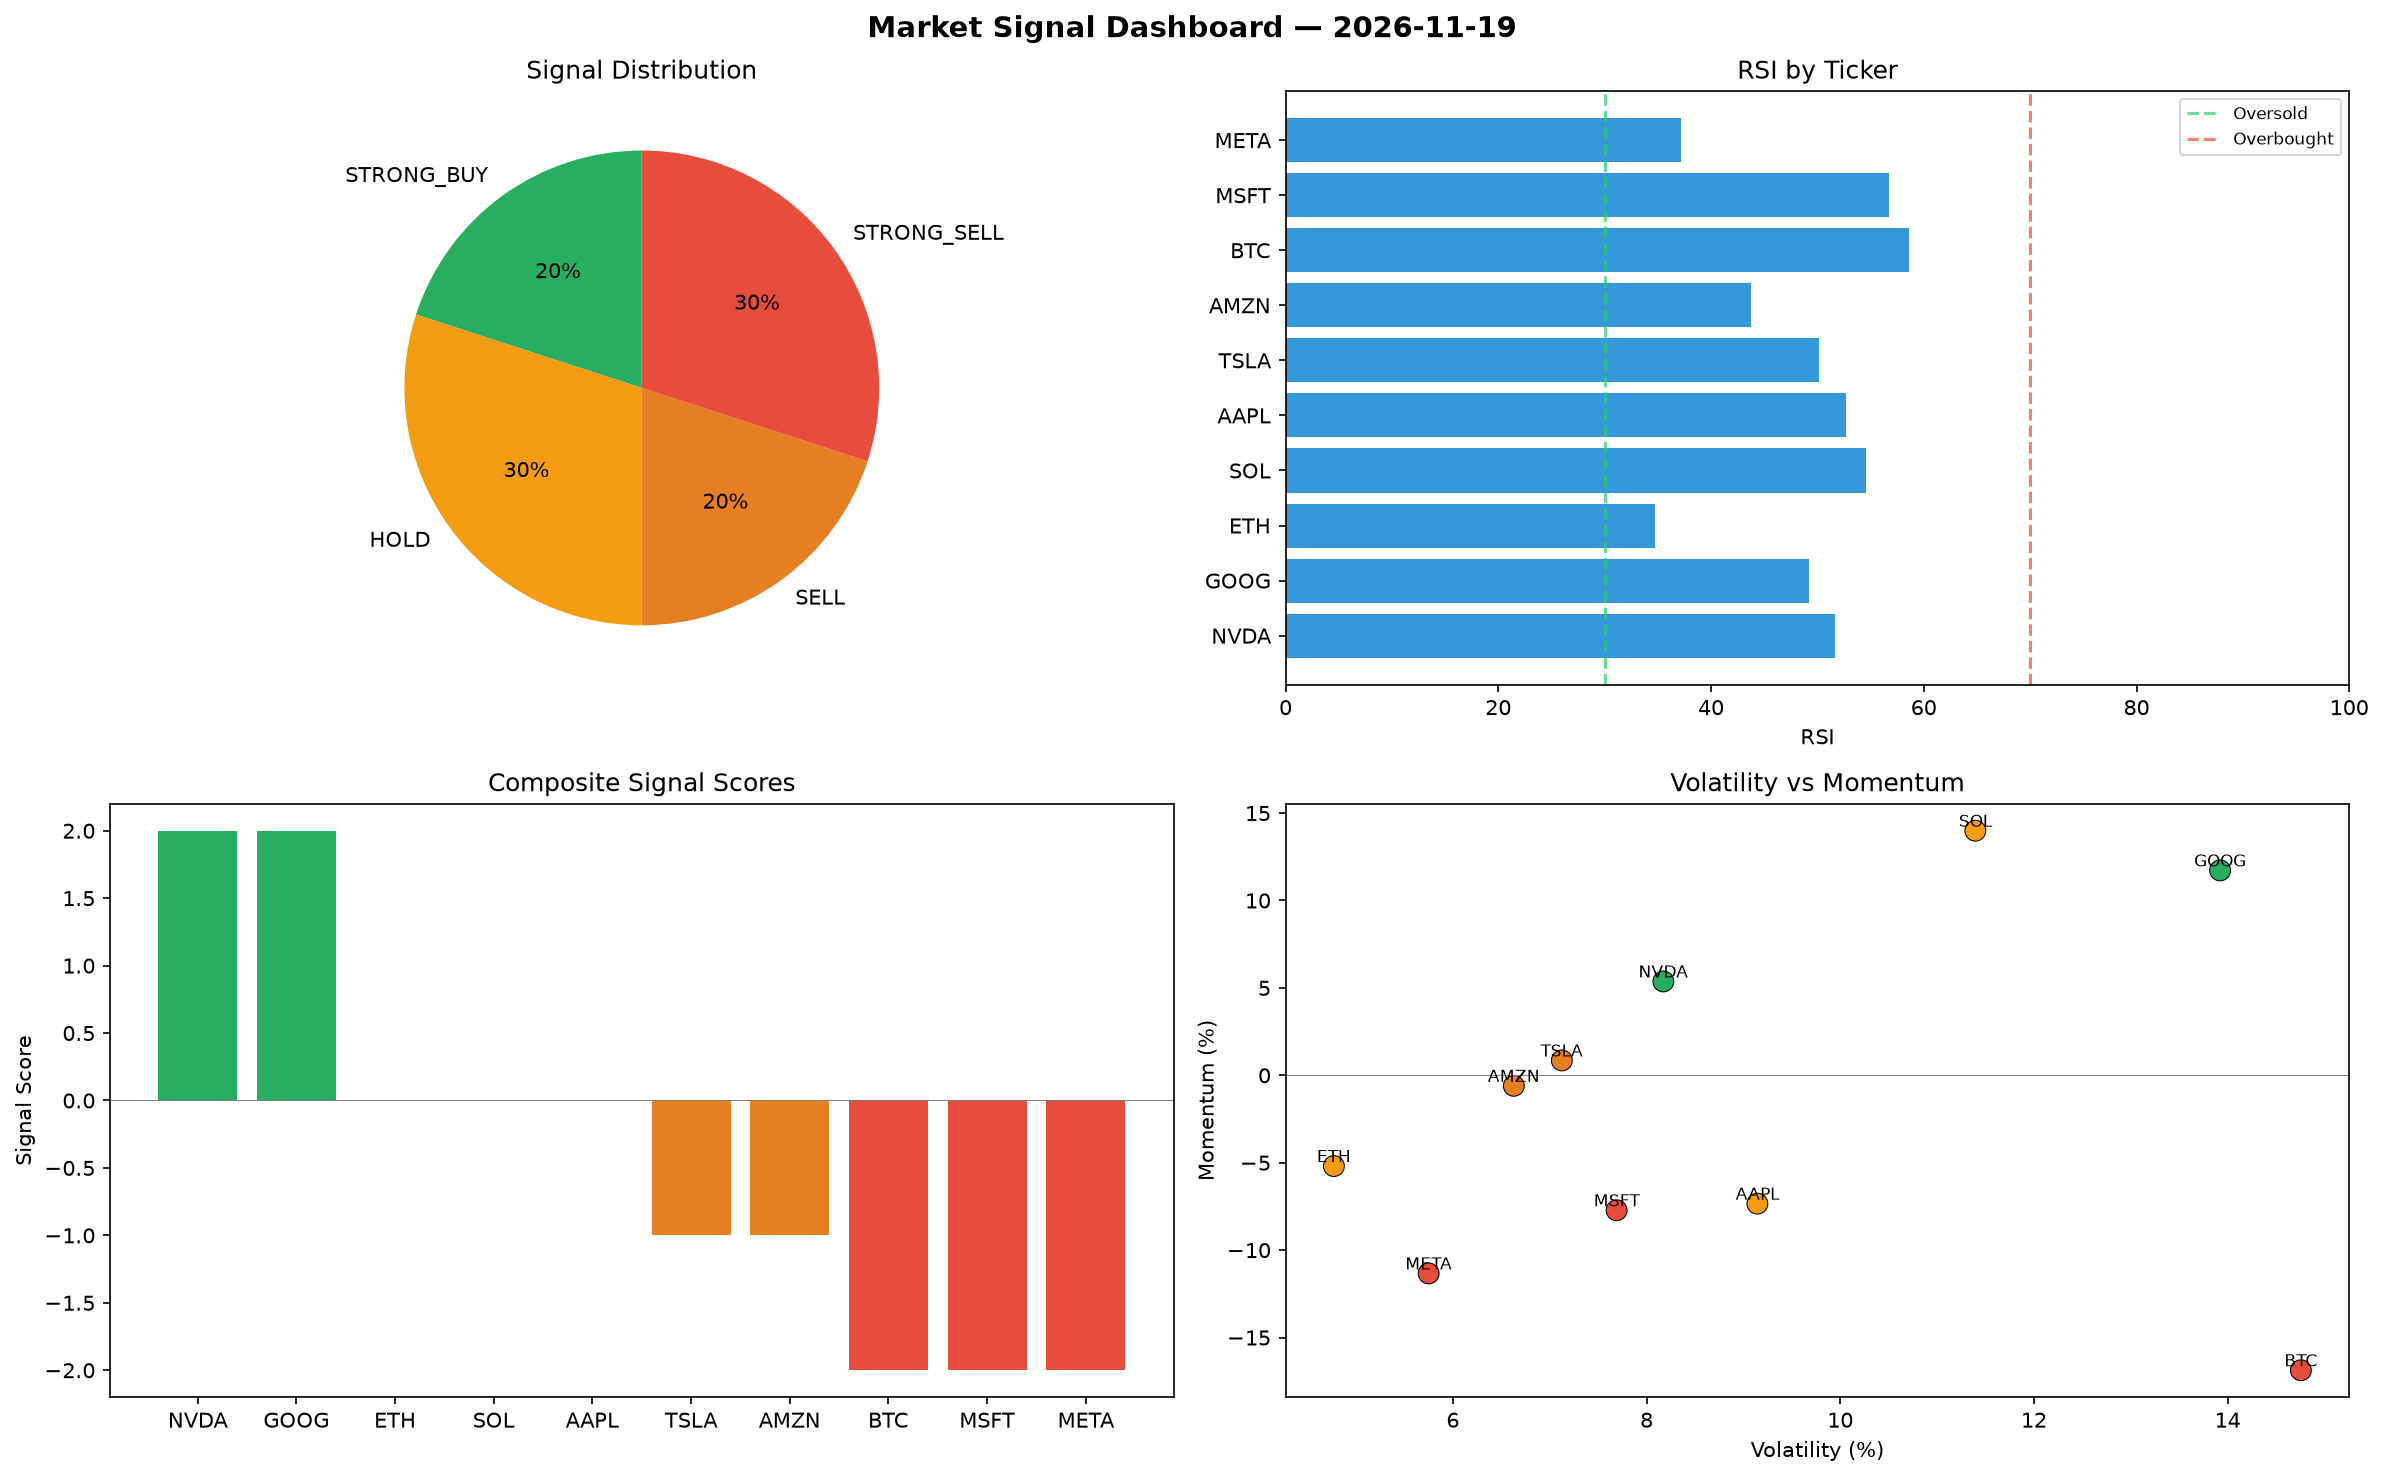
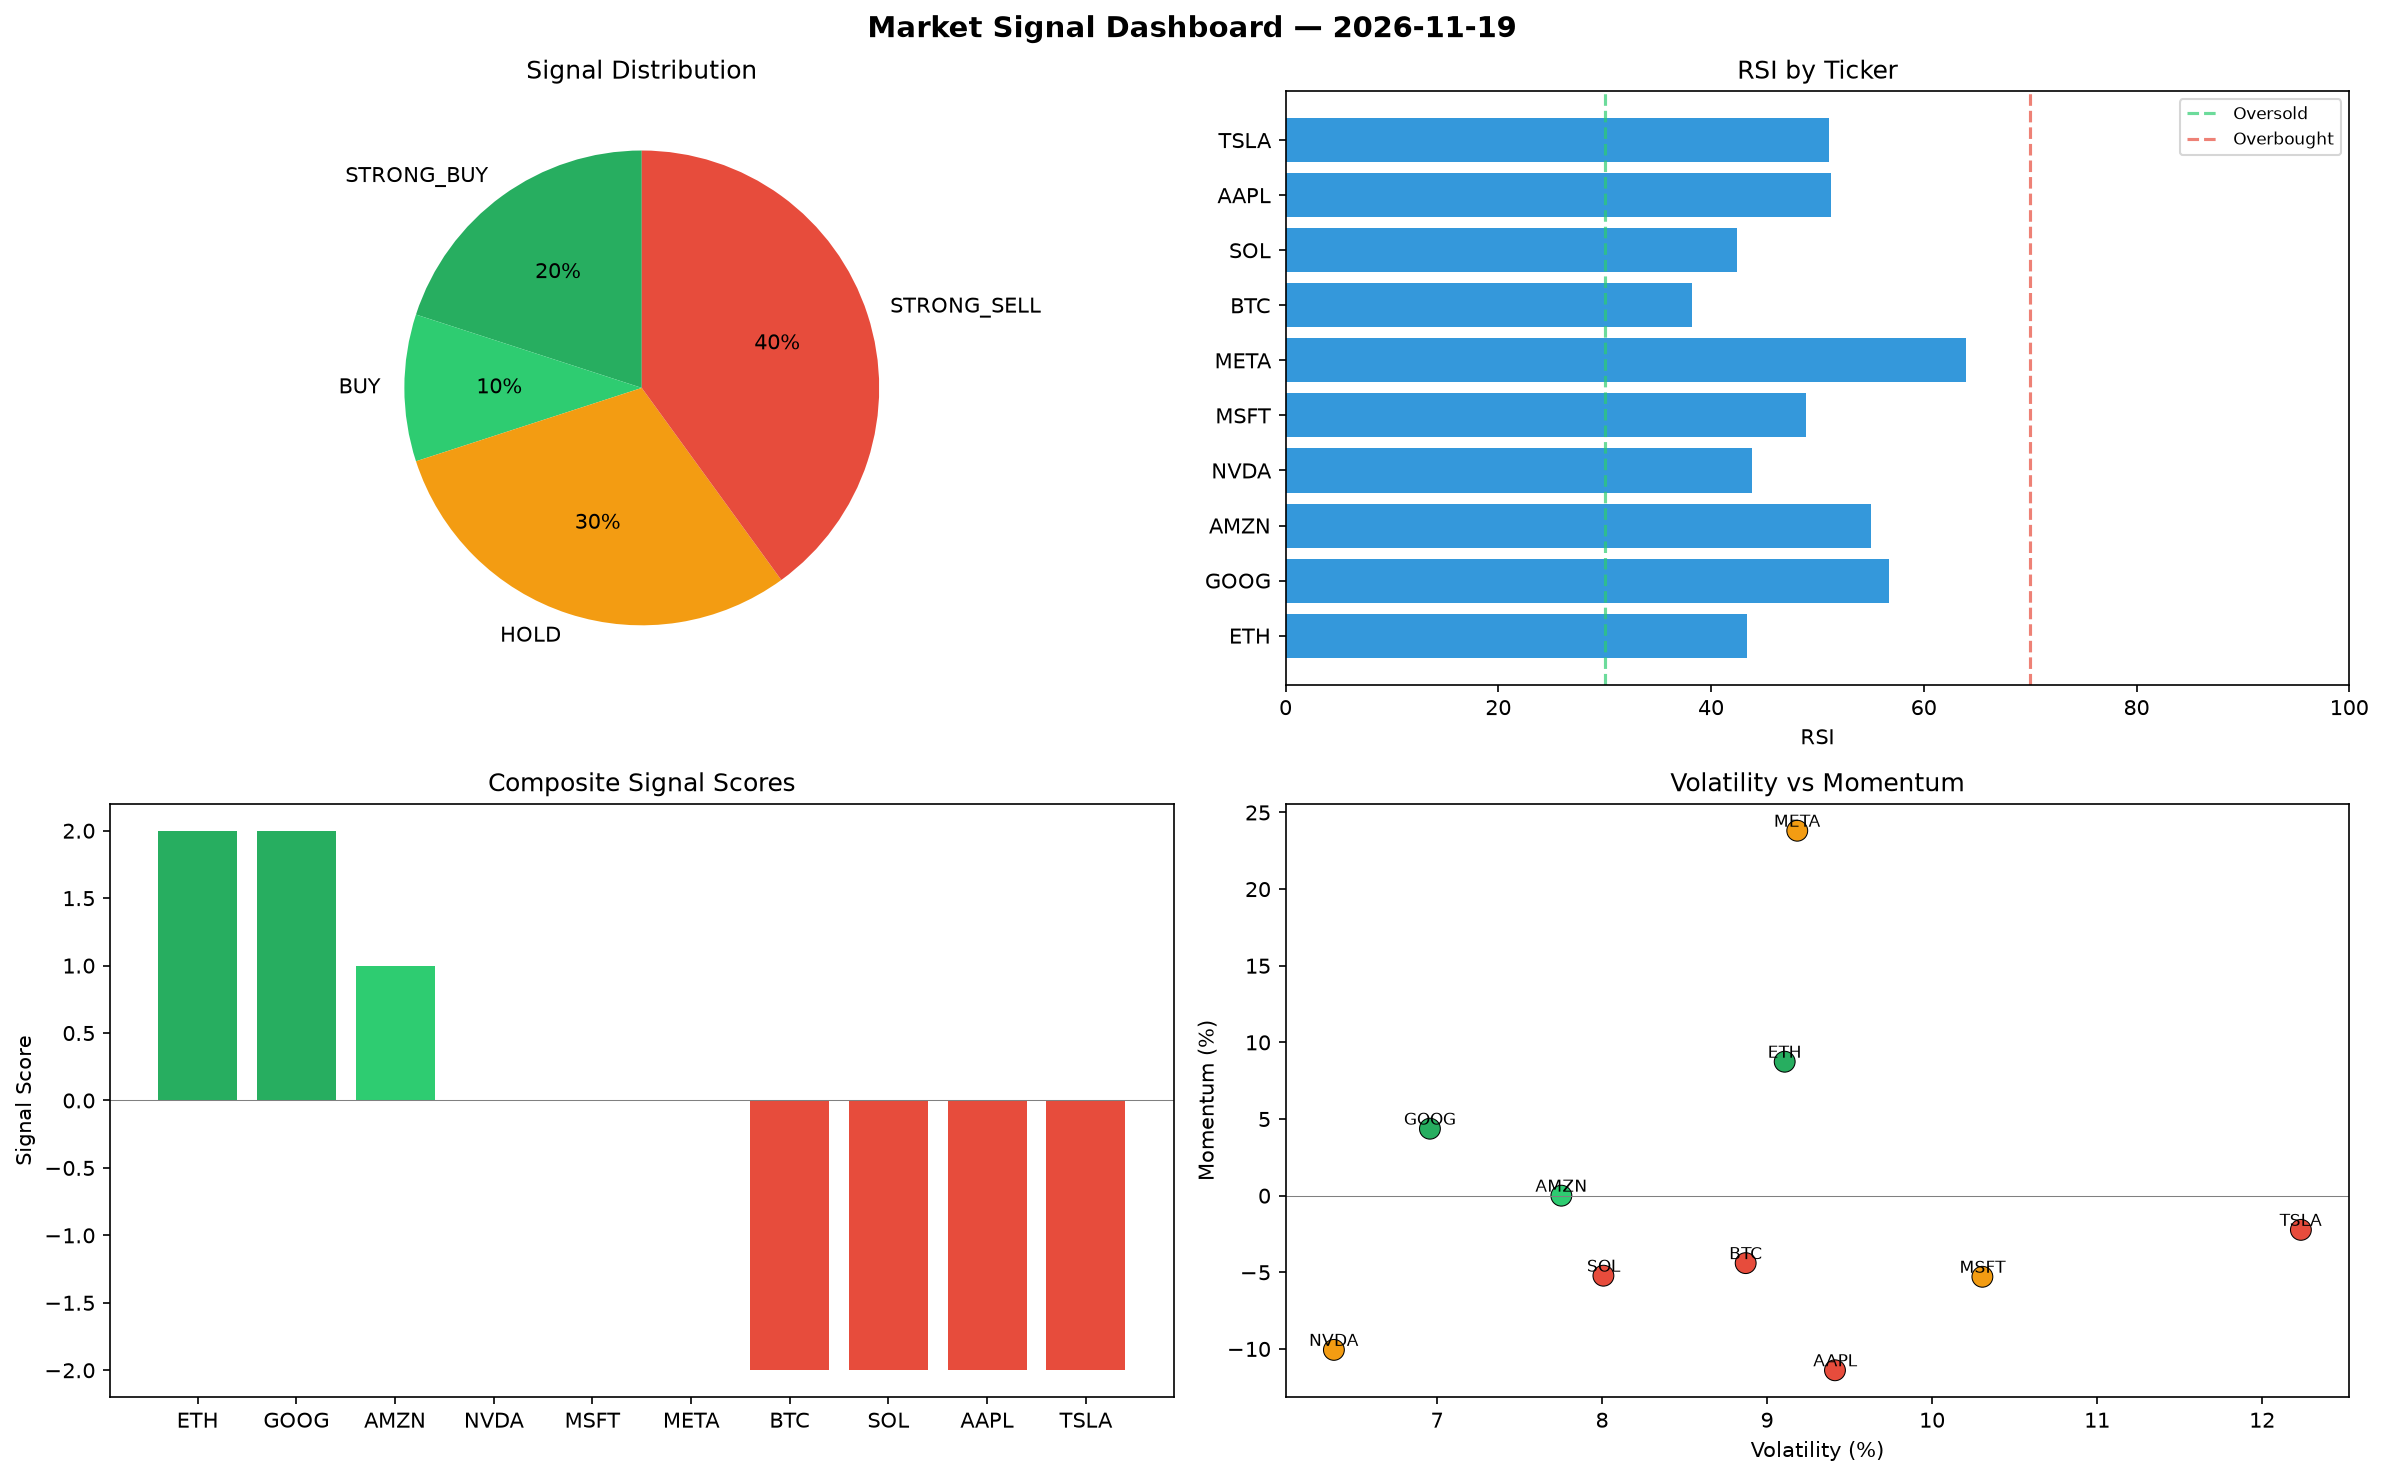
automated-bots: market signals 2026-11-19T10:35

diff --git a/logs/2026-11-19.md b/logs/2026-11-19.md
@@ -1,6 +1,6 @@
 # Market Signal Report — 2026-11-19
 
-**Run ID:** `4f9ea6cd6d` | **Buy:** 2 | **Sell:** 5 | **Hold:** 3
+**Run ID:** `186849a2a5` | **Buy:** 3 | **Sell:** 4 | **Hold:** 3
 
 ![Dashboard](2026-11-19_dashboard.png)
 
@@ -8,28 +8,28 @@
 
 | Ticker | Price | Signal | Score | RSI | Momentum | Confidence |
 |--------|-------|--------|-------|-----|----------|------------|
-| NVDA | $3525.76 | **STRONG_BUY** | 2 | 51.63 | 0.0537 | 0.5 |
-| GOOG | $3625.93 | **STRONG_BUY** | 2 | 49.22 | 0.1172 | 0.5 |
-| ETH | $3709.57 | **HOLD** | 0 | 34.75 | -0.0519 | 0.0 |
-| SOL | $2447.83 | **HOLD** | 0 | 54.61 | 0.1399 | 0.0 |
-| AAPL | $2013.69 | **HOLD** | 0 | 52.69 | -0.0734 | 0.0 |
-| TSLA | $799.68 | **SELL** | -1 | 50.16 | 0.0085 | 0.25 |
-| AMZN | $2494.23 | **SELL** | -1 | 43.75 | -0.006 | 0.25 |
-| BTC | $1211.27 | **STRONG_SELL** | -2 | 58.61 | -0.1687 | 0.5 |
-| MSFT | $1968.8 | **STRONG_SELL** | -2 | 56.73 | -0.0772 | 0.5 |
-| META | $2202.32 | **STRONG_SELL** | -2 | 37.15 | -0.1133 | 0.5 |
+| ETH | $1110.14 | **STRONG_BUY** | 2 | 43.41 | 0.0874 | 0.5 |
+| GOOG | $2187.84 | **STRONG_BUY** | 2 | 56.77 | 0.0437 | 0.5 |
+| AMZN | $4094.77 | **BUY** | 1 | 55.02 | -0.0 | 0.25 |
+| NVDA | $3864.33 | **HOLD** | 0 | 43.82 | -0.1006 | 0.0 |
+| MSFT | $2803.28 | **HOLD** | 0 | 48.95 | -0.0529 | 0.0 |
+| META | $3700.27 | **HOLD** | 0 | 63.96 | 0.2381 | 0.0 |
+| BTC | $2903.78 | **STRONG_SELL** | -2 | 38.19 | -0.044 | 0.5 |
+| SOL | $1190.7 | **STRONG_SELL** | -2 | 42.46 | -0.0522 | 0.5 |
+| AAPL | $2107.32 | **STRONG_SELL** | -2 | 51.32 | -0.1139 | 0.5 |
+| TSLA | $2547.24 | **STRONG_SELL** | -2 | 51.1 | -0.0223 | 0.5 |
 
 ## Delta vs Yesterday
 
 | Ticker | Today | Yesterday | Price Change | Signal Changed |
 |--------|-------|-----------|-------------|----------------|
-| NVDA | STRONG_BUY | HOLD | 📉 -19.68% | ⚠ YES |
-| GOOG | STRONG_BUY | BUY | 📉 -15.26% | ⚠ YES |
-| ETH | HOLD | STRONG_BUY | 📈 19.81% | ⚠ YES |
-| SOL | HOLD | STRONG_SELL | 📈 92.85% | ⚠ YES |
-| AAPL | HOLD | HOLD | 📉 -50.34% | — |
-| TSLA | SELL | STRONG_BUY | 📉 -81.11% | ⚠ YES |
-| AMZN | SELL | STRONG_BUY | 📉 -49.46% | ⚠ YES |
-| BTC | STRONG_SELL | BUY | 📉 -72.13% | ⚠ YES |
-| MSFT | STRONG_SELL | STRONG_BUY | 📈 319.23% | ⚠ YES |
-| META | STRONG_SELL | SELL | 📈 305.13% | ⚠ YES |
+| ETH | STRONG_BUY | STRONG_BUY | 📉 -64.14% | — |
+| GOOG | STRONG_BUY | BUY | 📉 -48.87% | ⚠ YES |
+| AMZN | BUY | STRONG_BUY | 📉 -17.03% | ⚠ YES |
+| NVDA | HOLD | HOLD | 📉 -11.97% | — |
+| MSFT | HOLD | STRONG_BUY | 📈 496.93% | ⚠ YES |
+| META | HOLD | SELL | 📈 580.68% | ⚠ YES |
+| BTC | STRONG_SELL | BUY | 📉 -33.19% | ⚠ YES |
+| SOL | STRONG_SELL | STRONG_SELL | 📉 -6.19% | — |
+| AAPL | STRONG_SELL | HOLD | 📉 -48.03% | ⚠ YES |
+| TSLA | STRONG_SELL | STRONG_BUY | 📉 -39.82% | ⚠ YES |
